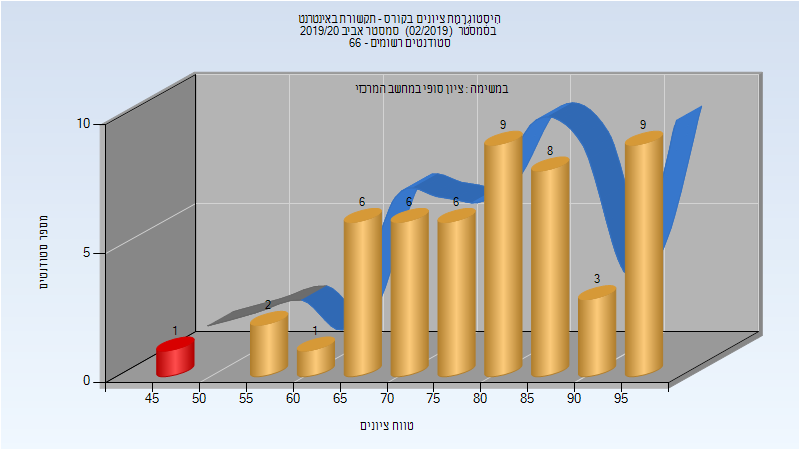
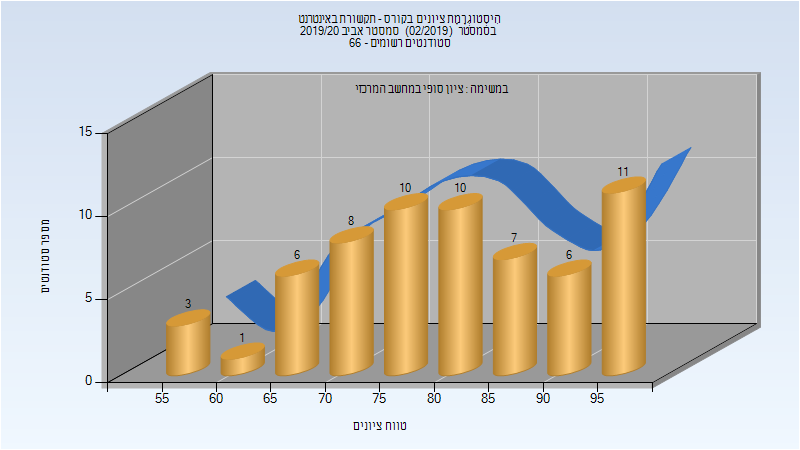
Deploy michael-maltsev/technion-histograms to github.com/michael-maltsev/technion-histograms.git:gh-pages

diff --git a/236703/index.html b/236703/index.html
@@ -343,13 +343,13 @@
 </thead>
 <tbody>
 <tr>
-<td>67</td>
-<td>54/13</td>
-<td>81</td>
-<td>15</td>
+<td>76</td>
+<td>70/6</td>
+<td>92</td>
+<td>38</td>
 <td>100</td>
-<td>70.269</td>
-<td>72</td>
+<td>75.197</td>
+<td>77</td>
 </tr>
 </tbody>
 </table>

diff --git a/236341/index.html b/236341/index.html
@@ -93,13 +93,13 @@
 </thead>
 <tbody>
 <tr>
-<td>51</td>
-<td>50/1</td>
-<td>98</td>
-<td>45</td>
+<td>62</td>
+<td>62/0</td>
+<td>100</td>
+<td>55</td>
 <td>99</td>
-<td>80.196</td>
-<td>81</td>
+<td>81.065</td>
+<td>82</td>
 </tr>
 </tbody>
 </table>

diff --git a/236703/README.md b/236703/README.md
@@ -111,5 +111,5 @@
 
 | סטודנטים | עברו/נכשלו | אחוז עוברים | ציון מינימלי | ציון מקסימלי | ממוצע | חציון |
 | ---- | ---- | ---- | ---- | ---- | ---- | ---- |
-| 67 | 54/13 | 81 | 15 | 100 | 70.269 | 72 |
+| 76 | 70/6 | 92 | 38 | 100 | 75.197 | 77 |
 

diff --git a/236341/README.md b/236341/README.md
@@ -26,5 +26,5 @@
 
 | סטודנטים | עברו/נכשלו | אחוז עוברים | ציון מינימלי | ציון מקסימלי | ממוצע | חציון |
 | ---- | ---- | ---- | ---- | ---- | ---- | ---- |
-| 51 | 50/1 | 98 | 45 | 99 | 80.196 | 81 |
+| 62 | 62/0 | 100 | 55 | 99 | 81.065 | 82 |
 
